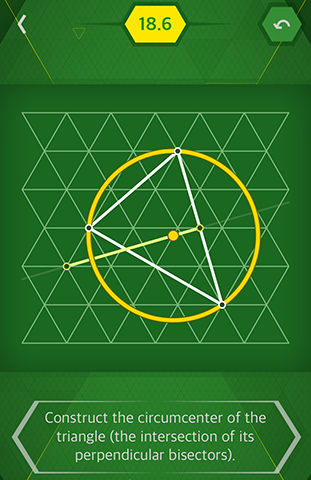
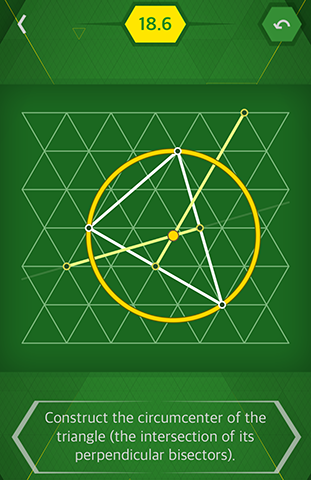
添加解答

diff --git a/Pythagorea60.md b/Pythagorea60.md
@@ -59,8 +59,11 @@
 - 18.7 [画中垂线。解：勾股定理，60度位置画一样长的线，找到顶点。](solving/Pythagorea60/18.07.png)
 - 18.8 [画中垂线。解：勾股定理，60度位置画一样长的线，连接顶点和线段中点。](solving/Pythagorea60/18.08.png)
 - 18.9 [画中垂线。解：中垂线交点。](solving/Pythagorea60/18.09.png)
-- 18.10 [画中垂线。解：找线段两个顶点距离一样的点，连接中点。](solving/Pythagorea60/18.10.png)
-- 18.11 [画中垂线。解：找线段两个顶点距离一样的点，连接中点。](solving/Pythagorea60/18.11.png)
+- 18.10 [画中垂线。解：勾股定理，1/4处60度位置画一半长的线，连接顶点和线段中点。](solving/Pythagorea60/18.10.png)
+- 18.11 [画中垂线。解：勾股定理，1/4处60度位置画一半长的线，连接顶点和线段中点。](solving/Pythagorea60/18.11.png)
+- 18.12 [画中垂线。解：中垂线交点。](solving/Pythagorea60/18.12.png)
+- 18.13 [画中垂线。解：中垂线交点。](solving/Pythagorea60/18.13.png)
+- 18.14 [画中垂线。解：中垂线交点。](solving/Pythagorea60/18.14.png)
 
 #### § 19 Perpendiculars
 - 19.8 BLOCKED
